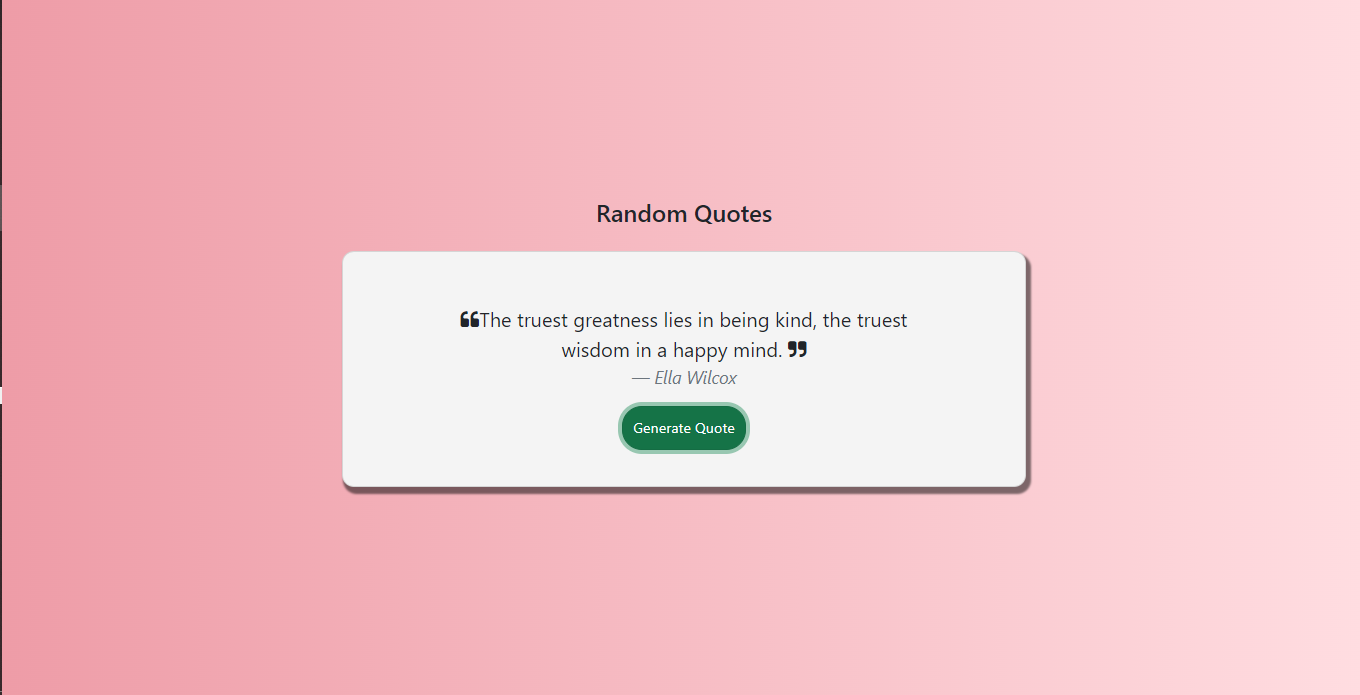
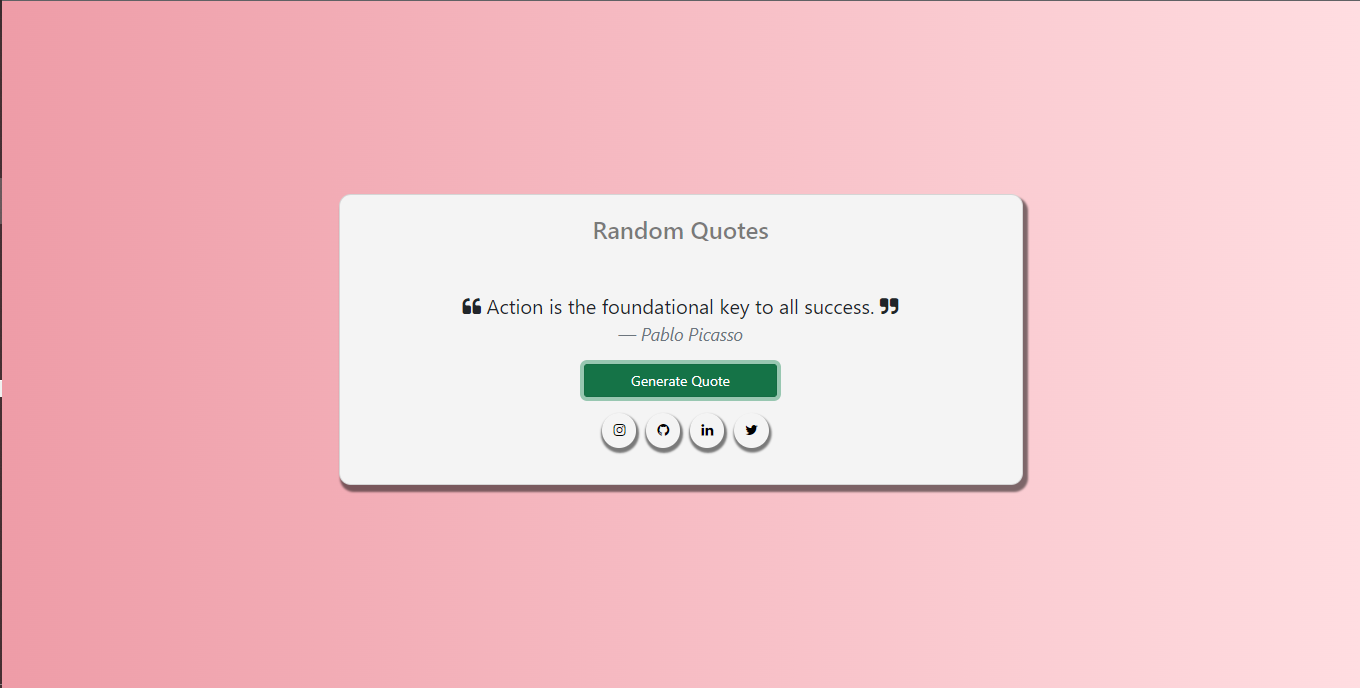
Social Links added

Changed region(s): [[0.2471, 0.2747, 0.7721, 0.7326], [0.3397, 0.4273, 0.6794, 0.6715]]

diff --git a/Html/index.html b/Html/index.html
@@ -14,20 +14,49 @@
   <body class="text-center d-flex justify-content-center align-items-center">
      <div class="container mx-auto " >
         <div class="row">
-            <h4 class="card-title mb-4">Random Quotes</h5>
+            
             <div class="card mx-auto" >
-               
+              <h4 class="card-title mb-3">Random Quotes</h5>
                 <div class="card-body mx-auto">
                   
                   <p class="card-text"><blockquote class="blockquote mb-0">
                    
-                  <p><i class="fa fa-quote-left"></i><span id="quoteText"> Lorem, ipsum dolor sit amet consectetur 
+                  <p><i class="fa fa-quote-left"></i><span id="quoteText">  Lorem, ipsum dolor sit amet consectetur 
                         adipisicing elit. Ullam voluptatibus nobis quisquam
                          ea optio inventore et magni harum tenetur tempore? </span> <i class="fa fa-quote-right"></i></p>
                        
                     <footer class="blockquote-footer"><cite id="quoteAuthor"title="Source Title">Author</cite></footer>
                   </blockquote></p>
-                  <button class="btn btn-success ">Generate Quote</button>
+                  <button class="btn btn-sm btn-success ">Generate Quote</button>
+                  <div class="mt-3 d-flex justify-content-center links">
+                    <a
+  class="btn btn-md btn-floating "
+  href="#!"
+  role="button"
+  ><i class="fa fa-instagram"></i
+></a>
+<a
+class="btn btn-md btn-floating"
+href="http://www.github.com/wildcatmidnight883"
+role="button"
+><i class="fa fa-github"></i>
+</a>
+<a
+class="btn btn-md btn-floating"
+href="https://www.linkedin.com/in/somtochi-mkparu-6a1a63245/"
+role="button"
+><i class="fa fa-linkedin"></i>
+</a>
+<a
+class="btn btn-md btn-floating"
+href="#!"
+role="button"
+><i class="fa fa-twitter"></i>
+</a>
+
+
+
+</div>
                 </div>
               </div>
         </div>

diff --git a/Css/style.css b/Css/style.css
@@ -5,11 +5,24 @@ body{
     margin:0;
     padding:0;
     min-height:100vh;
+   
 }
-.btn{
-    border-radius:20px;
-    color:#fff;
-    font-size:0.9em;
+h4{
+    font-family: system-ui, -apple-system, BlinkMacSystemFont, 'Segoe UI', Roboto, Oxygen, Ubuntu, Cantarell, 'Open Sans', 'Helvetica Neue', sans-serif;
+    color:rgba(0,0,0,0.5);
+    font-weight:500;
+}
+
+.btn-floating{
+    border-radius:25px;
+    box-shadow:1px 3px 2px 2px rgba(0,0,0,0.5);
+    color:#000;
+    font-size:0.85em;
+    margin-left:0.75em;
+}
+.btn-success{
+    padding:5px !important;
+    width:40%;
 }
 .card {
 border-radius:12px;
@@ -20,7 +33,7 @@ box-shadow:3px 5px 2px 2px rgba(0,0,0,0.5);
 
 
 }
-@media (min-width:768px){
+@media (min-width:1000px){
 .card{
     width:60% !important;
 }

diff --git a/Js/App.js b/Js/App.js
@@ -9,7 +9,7 @@ function getQuote(){
 fetch("https://type.fit/api/quotes").then((response)=>response.json())
 .then((data)=>{
     quoteNumber=random(data.length);
-    quoteText.textContent=data[quoteNumber].text;
+    quoteText.textContent=" "+data[quoteNumber].text;
     quoteAuthor.textContent=data[quoteNumber].author;
 })
 }
